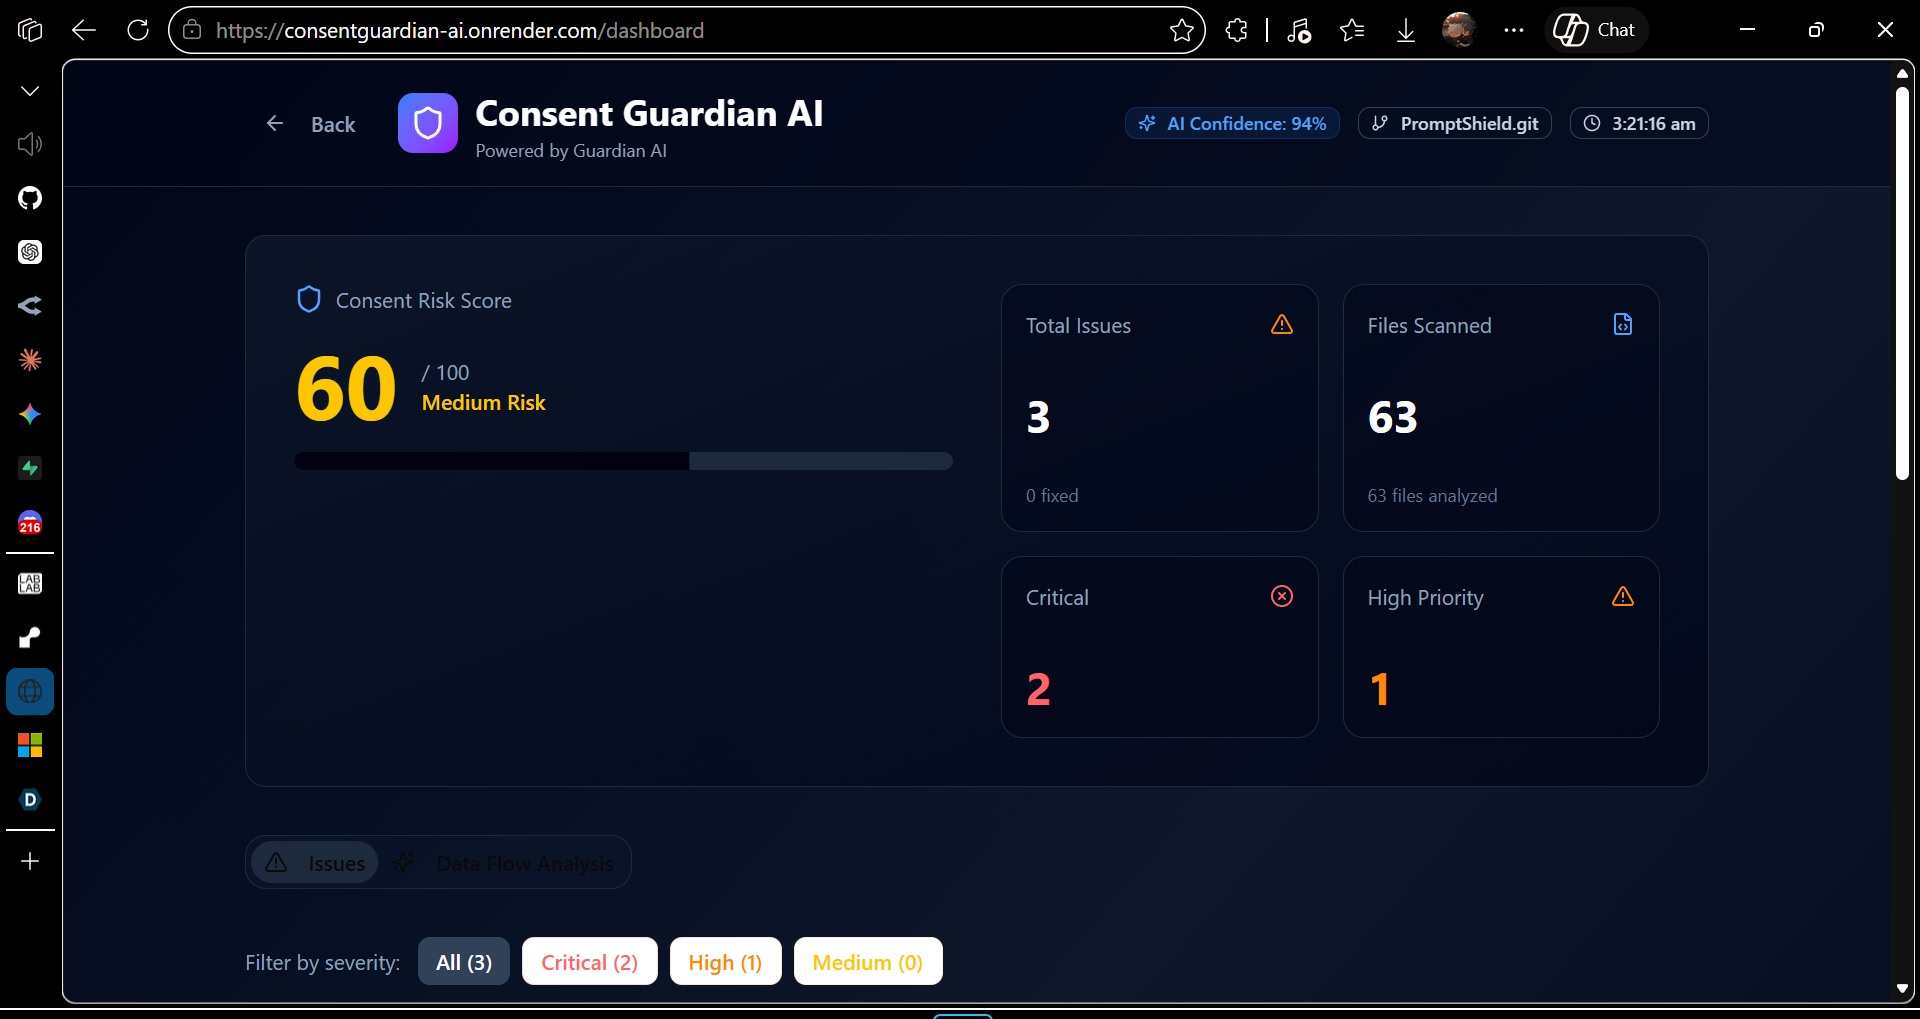
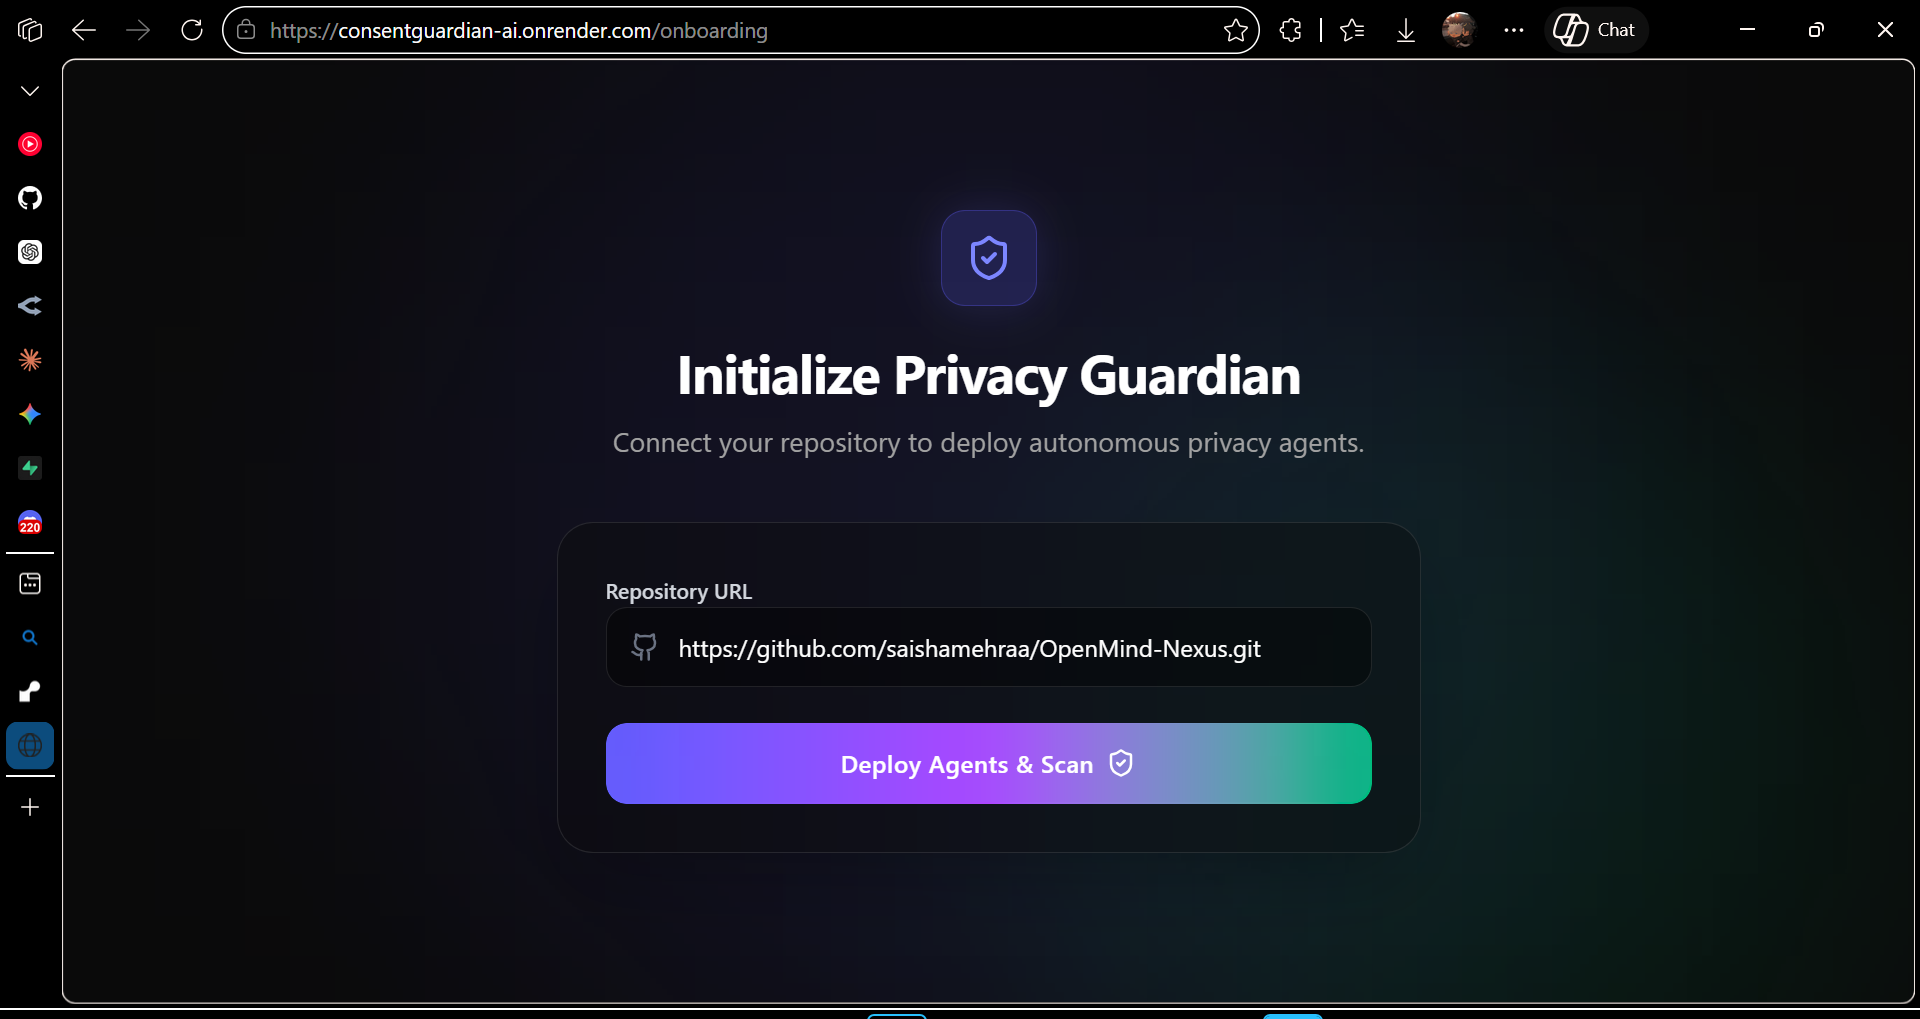
fix: documentations

diff --git a/README.md b/README.md
@@ -1,7 +1,7 @@
 # 🛡 Consent Guardian AI
-### AI-Powered Privacy & Consent Intelligence Platform for Modern Codebases
+### The AI Privacy Engineer for Modern Codebases
 
-> Automatically scan repositories, detect privacy violations, analyze consent risks, and generate AI-powered compliance fixes using Local LLMs.
+> Continuous Privacy Intelligence & Compliance Automation that detects privacy risks, predicts compliance degradation, and generates AI-powered fixes before code reaches production.
 
 <p align="center">
 
@@ -31,8 +31,8 @@
 
 # 📸 Product Screenshots
 
-## 1. Dashboard Overview
-*A high-level executive view of your repository's privacy health, compliance readiness, and active AI Agents.*
+## 1. Executive Privacy Scorecard
+*A high-level view for legal teams, CISOs, and compliance officers to track privacy health, regulatory exposure, and compliance readiness.*
 ![Dashboard](./assets/jpg1.png)
 
 ## 2. AI Issue Detection & PR Guardian
@@ -43,21 +43,21 @@
 *A pinch-to-zoom graph mapping exactly how PII moves through the application and exposing third-party sharing risks.*
 ![Data Flow Analysis](./assets/jpg3.png)
 
-## 4. Compliance Framework Heatmap (Add Screenshot Here)
+## 4. Compliance Framework Heatmap
 *Real-time cross-referencing of codebase architecture against GDPR, CCPA, COPPA, and PCI-DSS frameworks.*
 ![Compliance Heatmap](./assets/jpg4.png)
 
-## 5. AI Copilot & Remediation (Add Screenshot Here)
+## 5. AI Copilot & Remediation
 *Context-aware chat interface providing actionable, ready-to-merge code replacements to fix identified privacy risks.*
 ![AI Copilot](./assets/jpg5.png)
 
-## 6. Premium Settings & LLM Configuration (Add Screenshot Here)
+## 6. Enterprise Deployment Controls
 *Enterprise configuration pane to hot-swap between Gemini/OpenRouter API and air-gapped Local Ollama instances.*
 ![Settings Panel](./assets/jpg6.png)
 
 ---
 
-# ⚡ Key Highlights
+# ⚡ Why Teams Use Consent Guardian
 
 - AI-powered privacy compliance scanning
 - Local LLM-based secure repository analysis
@@ -81,31 +81,72 @@ They happen because developers unintentionally ship:
 - silent third-party data collection
 - manipulative dark patterns
 
-Consent Guardian AI transforms privacy compliance into an automated developer workflow.
+Consent Guardian AI transforms privacy compliance into an automated developer workflow. Privacy compliance today is largely reactive. Consent Guardian shifts privacy governance left by identifying, explaining, and remediating risks before code reaches production.
 
 ---
 
-# 🎯 Project Overview
+# 🎯 What Consent Guardian Does
 
-Consent Guardian AI is an AI-powered privacy intelligence platform that scans entire repositories to identify:
+Consent Guardian AI is an autonomous, **multi-agent** privacy governance platform that scans entire repositories to identify:
 - privacy violations
 - missing consent mechanisms
 - insecure data collection patterns
 - compliance risks
 
-Unlike traditional static analysis tools, Consent Guardian AI uses Local LLMs to semantically understand code behavior and generate compliance-aware remediation suggestions.
+Unlike traditional static analysis tools, Consent Guardian AI uses a coordinated multi-agent architecture to semantically understand code behavior, interact with developers, and generate compliance-aware remediation suggestions.
 
 ---
 
 # ✨ Core Capabilities
+
+## 🔮 Predictive Compliance Intelligence
+Consent Guardian doesn't just detect violations.
+
+It forecasts future compliance degradation by analyzing development patterns, repository history, and newly introduced code paths.
+
+### How Forecasting Works
+
+Consent Guardian compares repository baselines against newly introduced code changes.
+
+By analyzing:
+- pull request diffs
+- newly introduced data flows
+- privacy-sensitive API usage
+- consent regressions
+- historical compliance scores
+
+the platform estimates how a proposed change impacts future compliance readiness before deployment.
+
+> **Example Forecast:** "If this pull request is merged, GDPR compliance readiness drops from 92% to 78% due to unconsented geolocation tracking."
+
+## 🚨 Pull Request Guardian
+Consent Guardian reviews code before it reaches production.
+
+For every pull request, the PR Guardian Agent:
+* Detects privacy regressions
+* Calculates compliance impact
+* Blocks critical violations
+* Generates fix recommendations
+
+> **Example Finding:** "This pull request introduces geolocation collection without explicit user consent and increases GDPR exposure by 22%."
+
+## 🤖 Interactive Privacy Copilot
+Finding the problem is only half the battle. Consent Guardian acts as an interactive AI teammate.
+
+**Developer:** "Why is my GDPR score low?"
+**Guardian:** "Three location-tracking endpoints collect data before consent."
+**Developer:** "Show me where."
+**Guardian:** *(Opens files instantly and highlights the insecure `navigator.geolocation` calls)*
+
+**Developer:** "Which services receive this data?"
+**Guardian:** "I identified third-party integrations that receive location-related metadata through multiple application endpoints and highlighted the affected code paths."
 
 ## 🔍 Repository Scanning
 - Full repository analysis
 - Recursive file traversal
 - AST-aware contextual parsing
 
-## 🧠 AI Privacy Detection
-
+## 🧠 Multi-Agent Privacy Detection
 Detects:
 - hidden tracking
 - geolocation misuse
@@ -114,16 +155,13 @@ Detects:
 - dark patterns
 - biometric/children’s data misuse
 
-## 🛠 AI-Powered Remediation
-- developer-review remediation workflows
-- Ready-to-merge code replacements
-- Before/after code comparison
-
-## 📊 Risk Intelligence Dashboard
-- Dynamic Consent Risk Score
-- Interactive, pinch-to-zoom Data Flow mapping
-- Real-time Compliance framework mapping
-- Granular Settings for LLM Provider configuration
+## 📊 Executive Privacy Scorecard
+Enterprise buyers, legal teams, and compliance officers get a unified view of:
+- Privacy Health Score
+- Compliance Readiness
+- High Risk Findings
+- Regulatory Exposure
+- Trend Analysis
 
 ---
 
@@ -158,7 +196,7 @@ Final scores are categorized into:
 
 ---
 
-## 2. AI Scanner Engine
+## 2. Multi-Agent Privacy Intelligence Engine
 **Tech:** `Ollama`, Local LLMs
 
 ### Responsibilities
@@ -193,54 +231,69 @@ Final scores are categorized into:
 # ⚙ How It Works
 
 1. Connect Repository
-2. Scan Codebase
-3. Detect Privacy Violations
-4. Analyze Consent Risks
-5. Generate AI-Powered Fixes
-6. Improve Compliance Score
+2. Orchestrate Multi-Agent Analysis
+3. Map Data Flows & Regulatory Exposure
+4. Detect Privacy & Consent Violations
+5. Forecast Compliance Impact
+6. Generate AI-Powered Remediation
+7. Improve Privacy Health & Compliance Readiness
 
 ---
 
-# 🏗 High-Level System Architecture
+# 🏗 High-Level Multi-Agent Architecture
 
 ```text
-                ┌─────────────────────┐
-                │   Frontend Client   │
-                │ React + TypeScript  │
-                └──────────┬──────────┘
-                           │
-                           ▼
-                ┌─────────────────────┐
-                │   Express Backend   │
-                │   API Gateway       │
-                └──────────┬──────────┘
-                           │
-        ┌──────────────────┼──────────────────┐
-        ▼                  ▼                  ▼
+                    Repository
+                          │
+                          ▼
 
-┌────────────────┐ ┌────────────────┐ ┌──────────────────┐
-│ Repository     │ │ AI Scanner     │ │ Risk & Consent   │
-│ Parsing Engine │ │ Engine         │ │ Intelligence     │
-└────────────────┘ └────────────────┘ └──────────────────┘
-        │                  │                  │
-        └──────────────────┼──────────────────┘
-                           ▼
+            ┌─────────────────────────┐
+            │ Orchestrator Agent      │
+            └──────────┬──────────────┘
+                       │
 
-                ┌─────────────────────┐
-                │ Remediation Engine  │
-                └──────────┬──────────┘
-                           ▼
-                ┌─────────────────────┐
-                │ MongoDB Atlas       │
-                └─────────────────────┘
+ ┌────────────┬────────────┬────────────┬────────────┐
+ ▼            ▼            ▼            ▼
+
+Privacy     Data Flow   Compliance    PR Guardian
+Agent       Agent       Agent         Agent
+
+ └────────────┴────────────┴────────────┘
+                       │
+                       ▼
+
+             Risk Scoring Agent
+                       │
+                       ▼
+
+             Remediation Agent
+                       │
+                       ▼
+
+              Privacy Copilot
+                       │
+                       ▼
+
+      Executive Privacy Intelligence Dashboard
 ```
 
-### Core Pipeline
-- Repository ingestion
-- Semantic privacy analysis
-- Consent risk scoring
-- AI remediation generation
-- Dashboard analytics visualization
+### Agent Collaboration Workflow
+Consent Guardian is not a sequential workflow. It relies on a coordinated multi-agent architecture orchestrated by the Orchestrator Agent. Each agent operates with a dedicated system role, structured outputs, and specialized prompts coordinated through the Orchestrator Agent.
+
+#### 🧠 Orchestrator Agent
+**Responsibilities:**
+- Coordinate agent execution
+- Aggregate agent findings
+- Resolve conflicting assessments
+- Prioritize analysis pipelines
+- Maintain scan context across agents
+
+1. **Privacy Detection Agent** ➔ *Extracts raw privacy findings*
+2. **Data Flow Agent** ➔ *Provides architectural context to findings*
+3. **Compliance Agent** ➔ *Maps findings to GDPR/CCPA regulations*
+4. **Risk Scoring Agent** ➔ *Prioritizes issues based on impact*
+5. **Remediation Agent** ➔ *Generates merge-ready fixes*
+6. **Copilot Agent** ➔ *Explains decisions interactively to developers*
 
 ➡ [View Detailed Architecture Documentation](./ARCHITECTURE.md)
 
@@ -313,9 +366,40 @@ This enables detection of behavioral privacy violations that traditional static 
 |---|---|
 | Regex-based detection | Semantic AI reasoning |
 | Rule-only systems | Context-aware analysis |
+| Point-in-time scans | Continuous privacy intelligence |
+| Reactive compliance audits | Predictive compliance forecasting |
 | Detection only | Detection + remediation |
+| Code findings | Code findings + regulatory context |
+| Developers interpret results | AI explains impact & fixes |
 | Cloud-dependent | Local AI privacy-first |
 | Security focused | Privacy + consent focused |
+
+---
+
+# 💼 Business Impact
+
+Consent Guardian helps organizations:
+
+- Reduce privacy audit preparation time
+- Detect compliance risks earlier in the SDLC
+- Prevent costly regulatory violations
+- Improve developer privacy awareness
+- Enable privacy-by-design practices across engineering teams
+- Establish continuous governance workflows
+
+---
+
+# 📈 Example Findings
+
+In a demonstration repository scan, Consent Guardian identified:
+
+- Geolocation collection before user consent
+- Marketing preferences stored without explicit opt-in
+- Sensitive payment fields logged to application logs
+- Analytics integrations lacking documented consent paths
+- GDPR Article 7 consent management gaps
+
+and generated remediation suggestions for each issue.
 
 ---
 
@@ -404,10 +488,11 @@ logger.info('Payment initiated:', {
 - Ollama API (Local Fallback)
 - simple-git
 
-### AI Models
-- Gemini 2.5 Flash Lite (via OpenRouter)
-- Llama 3 8B
-- Gemma 2B (Local via Ollama)
+### Hybrid AI Architecture
+- Cloud LLM reasoning
+- Local privacy-preserving inference
+- Automated fallback orchestration
+- Multi-model remediation generation
 
 ---
 
@@ -483,10 +568,9 @@ Future roadmap items such as CI/CD enforcement, GitHub App integration, and auto
 Consent Guardian AI aims to become an autonomous AI governance layer for modern software ecosystems.
 
 ### Future capabilities include:
-- predictive privacy risk detection
-- consent regression forecasting
 - autonomous compliance guardrails
 - continuous data flow monitoring
+- privacy impact assessments
 
 ---
 
@@ -496,6 +580,7 @@ Consent Guardian AI aims to become an autonomous AI governance layer for modern 
 - AI findings may require developer verification
 - Some framework-specific consent flows may need custom rules
 - Prototype currently optimized for JavaScript/TypeScript repositories
+- Compliance recommendations should not replace legal review
 
 ---
 
